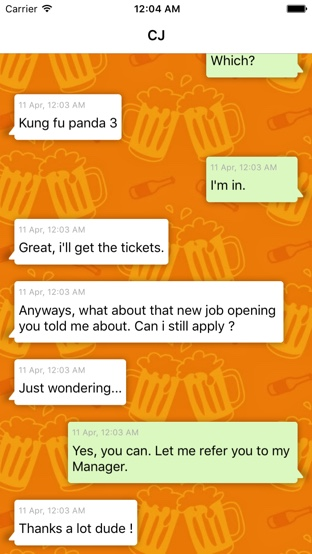
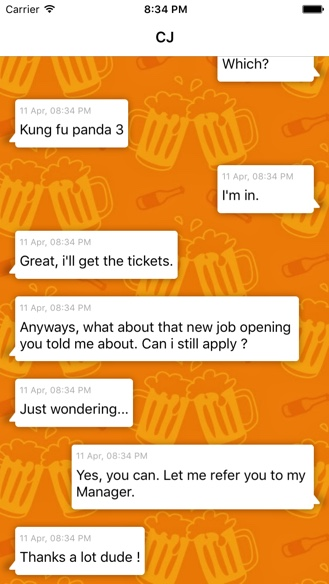
Sent message bubble color changed

diff --git a/README.md b/README.md
@@ -4,9 +4,13 @@ Plug and Play Chat UI for iOS, written in Objective C.
 Highly customizable
 Easy to use
 
-![alt text](https://i.imgur.com/6NgStg2.jpg "Screenshot 0")
-![alt text](https://i.imgur.com/XmgLqIR.jpg "Screenshot 1")
+######Screenshots
+![alt text](http://i.imgur.com/10ozGFF.jpg "Screenshot 0")
+![alt text](http://i.imgur.com/ctvUXHs.jpg "Screenshot 1")
 
 ###How to integrate with a project ?
 1. Clone the repo.
 2. Drag and drop AGChatViewController.h, AGChatViewController.m and AGChatViewController.xib, chat_arrow.png, chat_arrow.png@2x, chat_arrow.png@3x from /AGChatView/ into your xcode project directory.
+
+###How to use ?
+Use AGViewController class as your chat view class.
